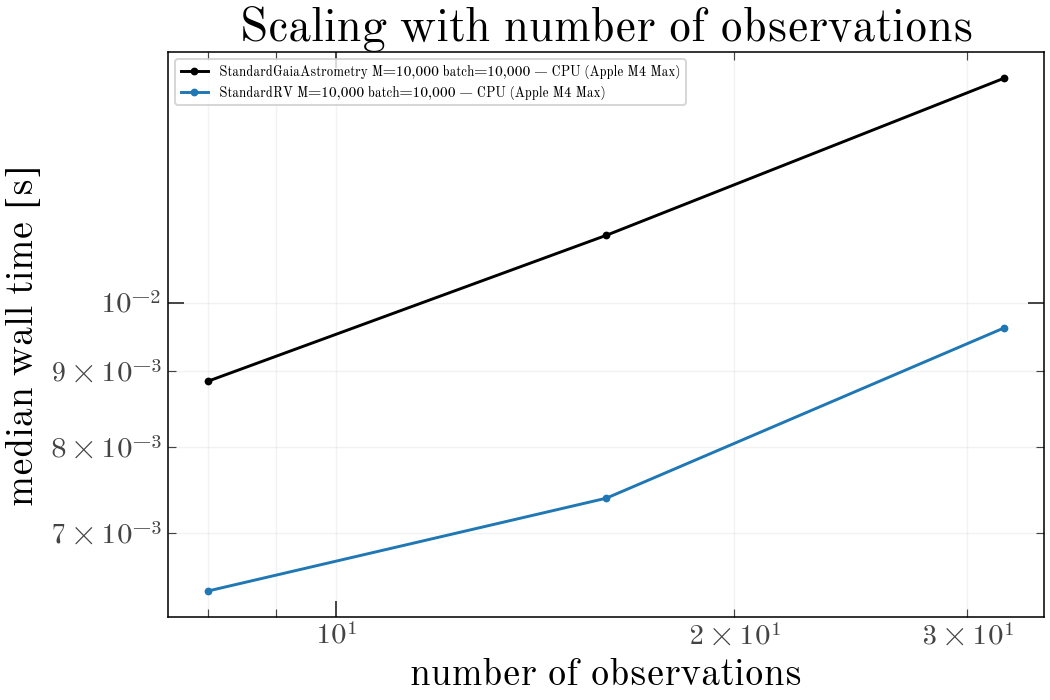
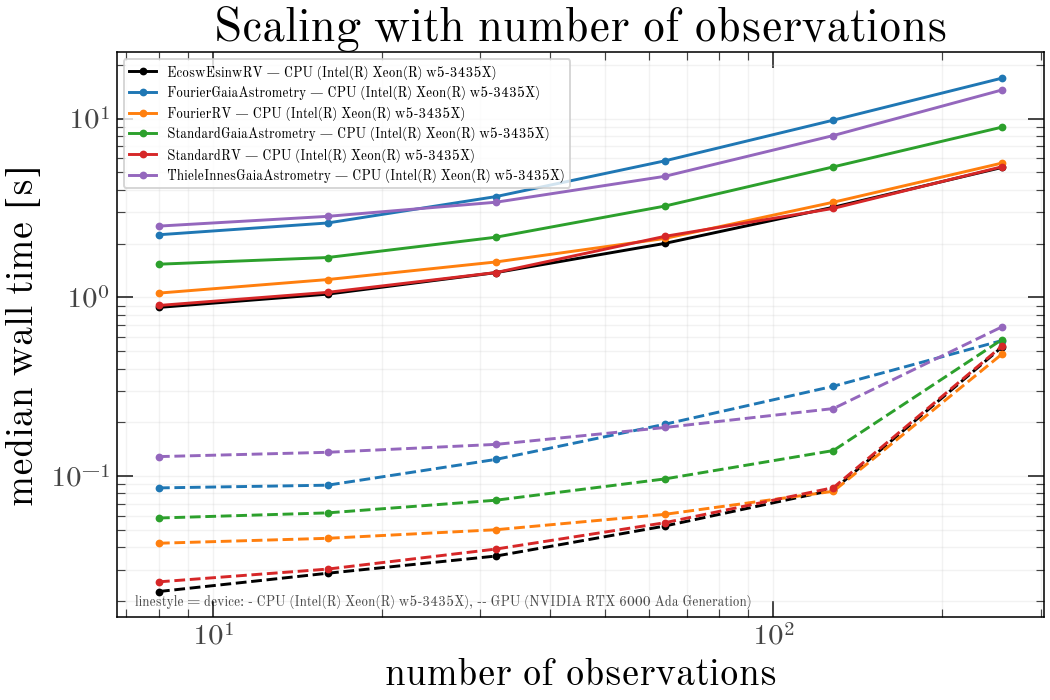
stop the library-size curve splitting into two rows
series_of labels a row by every coordinate that differs from the baseline, but
the library-size curve *derives* one of them: batch_size is min(baseline, M),
because a batch cannot exceed the library. Its M=1e4 cell therefore carries
batch_size=1e4, was read as a different series, and split every row in two.

The visible damage was worse than a cosmetic split. The M=1e4 point vanished
from the plot entirely -- a one-point series is skipped -- so the figure started
at 1e5, and every slope was fitted on three points instead of four. That
mattered: CPU slopes read 0.95-0.99, and over the full range they are 0.89-0.94.

Now a coordinate the curve derives from its own axis no longer distinguishes a
series. The plot spans 1e4 to 1e7, where the GPU's fixed-cost regime is visible
as a flat segment below 1e5 -- which is the thing the narrative claims, now
actually shown.

Found by looking at the rendered figure. The findings section read the data
directly and so was unaffected, which is why the tables and the prose disagreed
without either being obviously wrong.

diff --git a/benchmarks/report.py b/benchmarks/report.py
@@ -25,6 +25,7 @@ import numpy as np
 sys.path.insert(0, str(Path(__file__).resolve().parent))
 
 from grid import (
+    BASELINE,
     BATCH_SIZE_VALUES,
     N_OBS_VALUES,
     N_PRIOR_SAMPLE_VALUES,
@@ -212,15 +213,28 @@ def md_table(header: list[str], rows: list[list[str]]) -> str:
 
 
 def series_of(cell: Any, axis: str) -> tuple:
-    """The row identity within a curve: every coordinate except the varying axis."""
+    """The row identity within a curve: every coordinate except the varying axis.
+
+    A coordinate that the curve *derives* from its axis must not count as
+    distinguishing, or the series splits. The library-size curve sets
+    ``batch_size = min(baseline, M)`` because a batch cannot exceed the library, so
+    its ``M=1e4`` cell carries ``batch_size=1e4``; treating that as a separate
+    series dropped the smallest library from every row, every plot, and every
+    slope fit.
+    """
     parts: list[Any] = [cell.parameterization]
-    if axis != "n_prior_samples" and cell.n_prior_samples != 1_000_000:
+    if axis != "n_prior_samples" and cell.n_prior_samples != BASELINE.n_prior_samples:
         parts.append(f"M={cell.n_prior_samples:,}")
-    if axis != "n_obs" and cell.n_obs != 64:
+    if axis != "n_obs" and cell.n_obs != BASELINE.n_obs:
         parts.append(f"n_obs={cell.n_obs}")
-    if axis != "batch_size" and cell.batch_size != 100_000:
+    derived_batch = (
+        min(BASELINE.batch_size, cell.n_prior_samples)
+        if axis == "n_prior_samples"
+        else BASELINE.batch_size
+    )
+    if axis != "batch_size" and cell.batch_size != derived_batch:
         parts.append(f"batch={cell.batch_size:,}")
-    if axis != "backend" and cell.backend != "memory":
+    if axis != "backend" and cell.backend != BASELINE.backend:
         parts.append(cell.backend)
     return tuple(parts)
 

diff --git a/docs/benchmarks.md b/docs/benchmarks.md
@@ -178,52 +178,34 @@ All other axes are held at the baseline: `n_obs=64`, `M=1e6`, `batch_size=1e5`, 
 
 | parameterization | 10000 | 100000 | 1000000 | 10000000 | slope |
 |---|---|---|---|---|---|
-| EcoswEsinwRV | -- | 212.1 ms | 2.00 s | 20.10 s | +0.99 |
-| EcoswEsinwRV batch=10,000 | 45.5 ms | -- | -- | -- | -- |
-| FourierGaiaAstrometry | -- | 641.1 ms | 5.81 s | 58.30 s | +0.98 |
-| FourierGaiaAstrometry batch=10,000 | 90.2 ms | -- | -- | -- | -- |
-| FourierRV | -- | 251.5 ms | 2.14 s | 21.64 s | +0.97 |
-| FourierRV batch=10,000 | 42.3 ms | -- | -- | -- | -- |
-| StandardGaiaAstrometry | -- | 402.8 ms | 3.24 s | 32.37 s | +0.95 |
-| StandardGaiaAstrometry batch=10,000 | 70.2 ms | -- | -- | -- | -- |
-| StandardRV | -- | 224.9 ms | 2.19 s | 20.05 s | +0.98 |
-| StandardRV batch=10,000 | 41.2 ms | -- | -- | -- | -- |
-| ThieleInnesGaiaAstrometry | -- | 521.4 ms | 4.76 s | 47.66 s | +0.98 |
-| ThieleInnesGaiaAstrometry batch=10,000 | 83.1 ms | -- | -- | -- | -- |
+| EcoswEsinwRV | 45.5 ms | 212.1 ms | 2.00 s | 20.10 s | +0.89 |
+| FourierGaiaAstrometry | 90.2 ms | 641.1 ms | 5.81 s | 58.30 s | +0.94 |
+| FourierRV | 42.3 ms | 251.5 ms | 2.14 s | 21.64 s | +0.91 |
+| StandardGaiaAstrometry | 70.2 ms | 402.8 ms | 3.24 s | 32.37 s | +0.89 |
+| StandardRV | 41.2 ms | 224.9 ms | 2.19 s | 20.05 s | +0.91 |
+| ThieleInnesGaiaAstrometry | 83.1 ms | 521.4 ms | 4.76 s | 47.66 s | +0.92 |
 
 **GPU (NVIDIA RTX 6000 Ada Generation)** — median wall time
 
 | parameterization | 10000 | 100000 | 1000000 | 10000000 | slope |
 |---|---|---|---|---|---|
-| EcoswEsinwRV | -- | 13.0 ms | 52.6 ms | 386.0 ms | +0.74 |
-| EcoswEsinwRV batch=10,000 | 9.9 ms | -- | -- | -- | -- |
-| FourierGaiaAstrometry | -- | 30.1 ms | 195.0 ms | 1.73 s | +0.88 |
-| FourierGaiaAstrometry batch=10,000 | 10.9 ms | -- | -- | -- | -- |
-| FourierRV | -- | 12.8 ms | 61.1 ms | 490.7 ms | +0.79 |
-| FourierRV batch=10,000 | 8.6 ms | -- | -- | -- | -- |
-| StandardGaiaAstrometry | -- | 23.2 ms | 96.5 ms | 745.8 ms | +0.75 |
-| StandardGaiaAstrometry batch=10,000 | 16.6 ms | -- | -- | -- | -- |
-| StandardRV | -- | 16.7 ms | 54.9 ms | 384.6 ms | +0.68 |
-| StandardRV batch=10,000 | 13.5 ms | -- | -- | -- | -- |
-| ThieleInnesGaiaAstrometry | -- | 33.9 ms | 187.1 ms | 1.61 s | +0.84 |
-| ThieleInnesGaiaAstrometry batch=10,000 | 15.4 ms | -- | -- | -- | -- |
+| EcoswEsinwRV | 9.9 ms | 13.0 ms | 52.6 ms | 386.0 ms | +0.54 |
+| FourierGaiaAstrometry | 10.9 ms | 30.1 ms | 195.0 ms | 1.73 s | +0.74 |
+| FourierRV | 8.6 ms | 12.8 ms | 61.1 ms | 490.7 ms | +0.59 |
+| StandardGaiaAstrometry | 16.6 ms | 23.2 ms | 96.5 ms | 745.8 ms | +0.56 |
+| StandardRV | 13.5 ms | 16.7 ms | 54.9 ms | 384.6 ms | +0.49 |
+| ThieleInnesGaiaAstrometry | 15.4 ms | 33.9 ms | 187.1 ms | 1.61 s | +0.68 |
 
 **Speedup** — CPU (Intel(R) Xeon(R) w5-3435X) / GPU (NVIDIA RTX 6000 Ada Generation) (>1 means GPU (NVIDIA RTX 6000 Ada Generation) is faster)
 
 | parameterization | 10000 | 100000 | 1000000 | 10000000 |
 |---|---|---|---|---|
-| EcoswEsinwRV | -- | 16.3x | 38.1x | 52.1x |
-| EcoswEsinwRV batch=10,000 | 4.6x | -- | -- | -- |
-| FourierGaiaAstrometry | -- | 21.3x | 29.8x | 33.8x |
-| FourierGaiaAstrometry batch=10,000 | 8.3x | -- | -- | -- |
-| FourierRV | -- | 19.6x | 35.0x | 44.1x |
-| FourierRV batch=10,000 | 4.9x | -- | -- | -- |
-| StandardGaiaAstrometry | -- | 17.3x | 33.6x | 43.4x |
-| StandardGaiaAstrometry batch=10,000 | 4.2x | -- | -- | -- |
-| StandardRV | -- | 13.5x | 40.0x | 52.1x |
-| StandardRV batch=10,000 | 3.1x | -- | -- | -- |
-| ThieleInnesGaiaAstrometry | -- | 15.4x | 25.4x | 29.6x |
-| ThieleInnesGaiaAstrometry batch=10,000 | 5.4x | -- | -- | -- |
+| EcoswEsinwRV | 4.6x | 16.3x | 38.1x | 52.1x |
+| FourierGaiaAstrometry | 8.3x | 21.3x | 29.8x | 33.8x |
+| FourierRV | 4.9x | 19.6x | 35.0x | 44.1x |
+| StandardGaiaAstrometry | 4.2x | 17.3x | 33.6x | 43.4x |
+| StandardRV | 3.1x | 13.5x | 40.0x | 52.1x |
+| ThieleInnesGaiaAstrometry | 5.4x | 15.4x | 25.4x | 29.6x |
 
 `slope` is the exponent of a log-log least-squares fit: 1.0 is linear
 in prior library size $M$, 0.0 is free.
